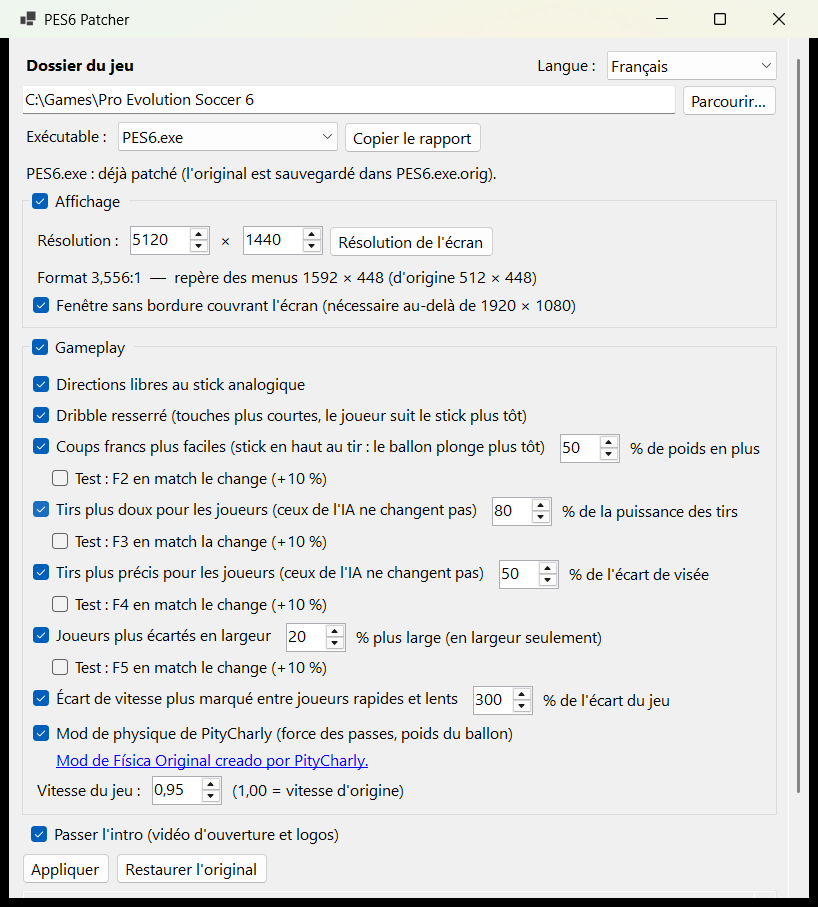
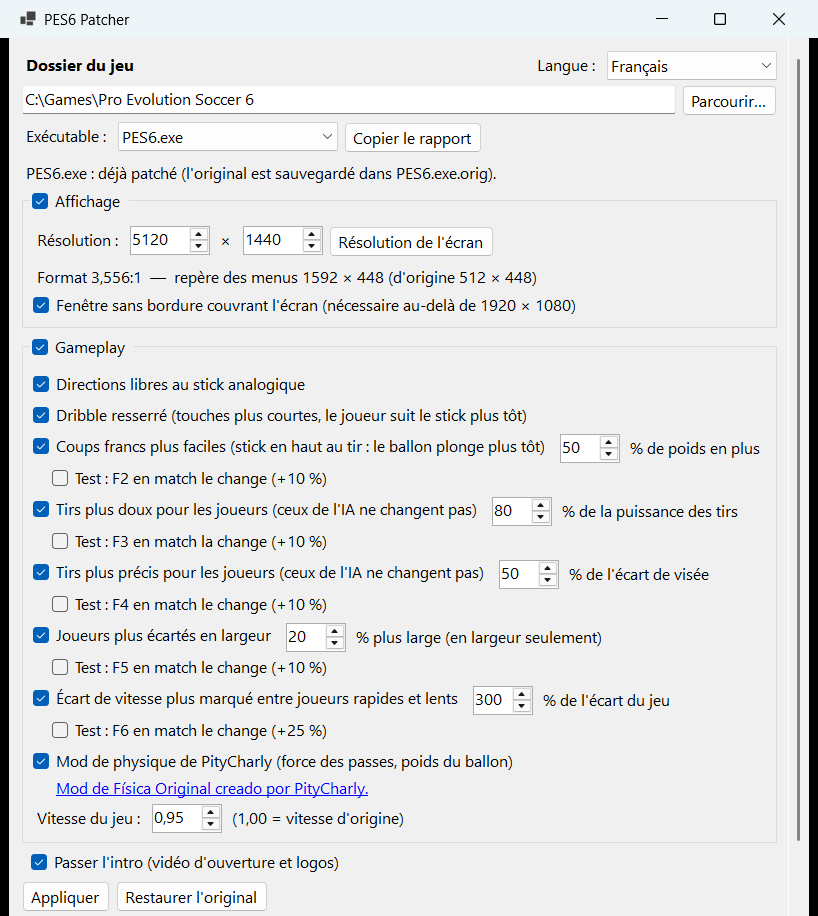
Update the README screenshots with the F6 test key
The window is also a bit taller so the buttons stay visible with the
new option.

diff --git a/src/PES6Patcher/MainForm.cs b/src/PES6Patcher/MainForm.cs
@@ -79,7 +79,7 @@ internal sealed class MainForm : Form
         Font = new Font("Segoe UI", 9.5f);
         AutoScaleMode = AutoScaleMode.Dpi;
         StartPosition = FormStartPosition.CenterScreen;
-        ClientSize = new Size(800, 860);
+        ClientSize = new Size(800, 900);
         MinimumSize = new Size(640, 560);
 
         var browse = new Button { Text = Loc.T("Folder.Browse"), AutoSize = true };
